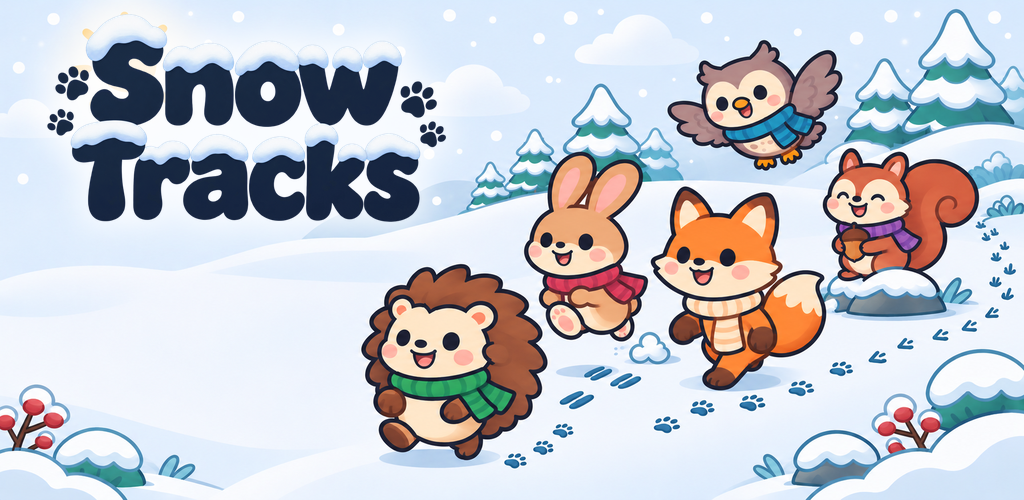
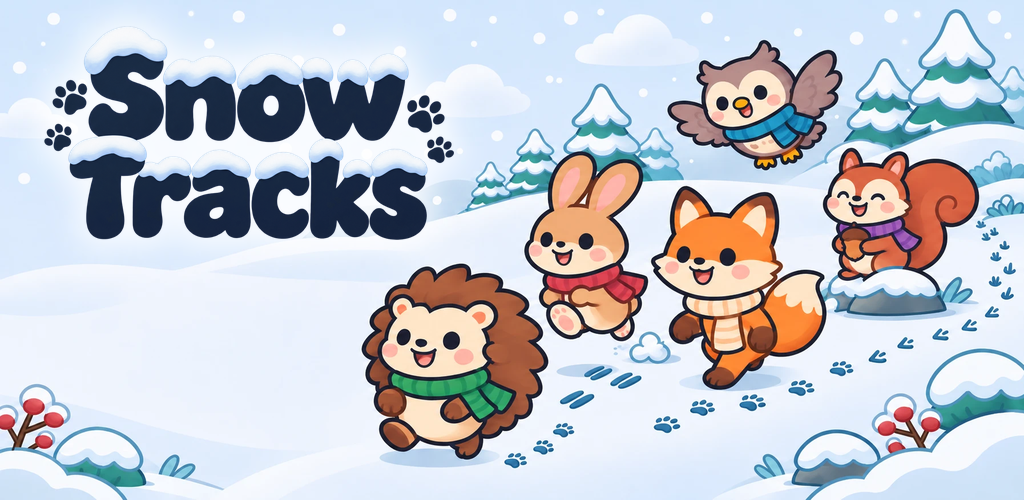
Gráfico de destaque com a ilustração nova (céu livre à esquerda para o logótipo)
Claude-Session: https://claude.ai/code/session_019qmALCv4ef3vy6rfbU3Dgw

diff --git a/tools/feature_graphic.py b/tools/feature_graphic.py
@@ -7,10 +7,10 @@ import os
 from PIL import Image, ImageFilter
 
 ROOT = os.path.join(os.path.dirname(__file__), "..")
-ART = os.path.join(ROOT, "assets", "images", "fontes", "caminhada_alegre_na_neve.png")
+ART = os.path.join(ROOT, "assets", "images", "fontes", "caminhada_destaque.png")
 OUT = os.path.join(ROOT, "store", "android")
 W, H = 1024, 500
-BOX = (24, 14, 470, 222)  # onde cabe o logótipo: no céu, à esquerda, sem tapar os animais
+BOX = (28, 26, 470, 240)  # onde cabe o logótipo: o céu vazio à esquerda, sem tapar os animais
 
 
 def make(lang):

diff --git a/README.md b/README.md
@@ -157,7 +157,7 @@ godot --path . -- --shots                             # capturas para user://sho
   `godot --path . --resolution 1080x1920 -- --shots` (ficam em `user://shots/`).
 - **Gráfico de destaque do Google Play** (1024×500, obrigatório): `store/android/grafico_destaque_<língua>.png`
   (um por língua, com o logótipo traduzido). Refaz com `python tools/feature_graphic.py`;
-  a ilustração original está em `assets/images/fontes/caminhada_alegre_na_neve.png`.
+  a ilustração está em `assets/images/fontes/caminhada_destaque.png`.
 - **Política de privacidade e termos**: `site/` (português e inglês), publicados no GitHub Pages.
 - **Exportação**: perfis "Android" (AAB, alvo API 36, compilação Gradle) e "iOS" em `export_presets.cfg`.
   No editor: Projeto → Instalar modelo de compilação Android; no iOS preenche o Team ID.
